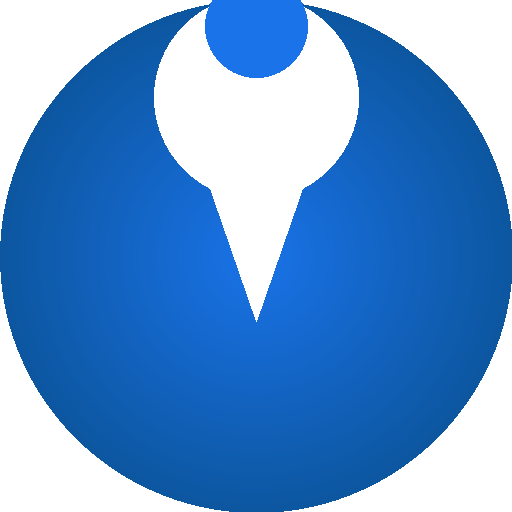
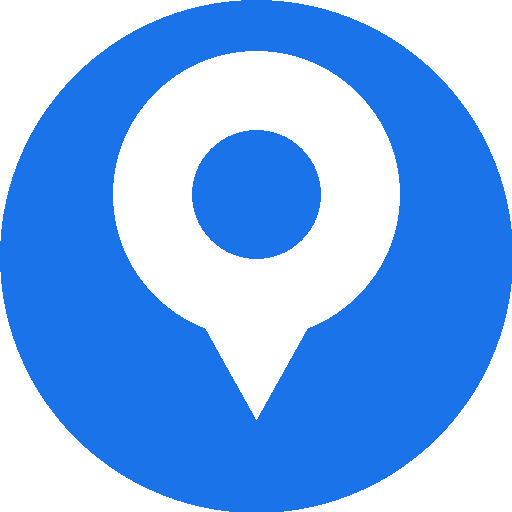
Add files via upload

diff --git a/index.html b/index.html
@@ -8,8 +8,10 @@
 <meta name="theme-color" content="#1a73e8">
 <title>Family Location</title>
 <link rel="manifest" href="manifest.json">
-<link rel="icon" href="icons/icon.svg">
-<link rel="apple-touch-icon" href="icons/icon.svg">
+<link rel="icon" href="icons/icon-192.png">
+<link rel="apple-touch-icon" href="icons/icon-192.png">
+<link rel="apple-touch-icon" sizes="192x192" href="icons/icon-192.png">
+<link rel="apple-touch-icon" sizes="512x512" href="icons/icon-512.png">
 <link rel="preconnect" href="https://fonts.googleapis.com">
 <link rel="preconnect" href="https://fonts.gstatic.com" crossorigin>
 <link href="https://fonts.googleapis.com/css2?family=Heebo:wght@300;400;500;700;800;900&display=swap" rel="stylesheet">
@@ -19,7 +21,7 @@
 // ╔══════════════════════════════════════════════════════════╗
 // ║  APP CONFIGURATION – Edit these values                   ║
 // ╚══════════════════════════════════════════════════════════╝
-const APP_VERSION        = "1.3.1";
+const APP_VERSION        = "1.4.0";
 const APP_NAME           = "Family Location";
 const LOCATION_UPDATE_MS = 30000;   // location push interval (ms)
 
@@ -566,16 +568,21 @@ select.lang-sel{
       <button class="m-priv no-print" id="privBtn" onclick="togglePrivacy()">
         <span id="privIco">👁️</span><span id="privLbl"></span>
       </button>
-      <!-- Member selector top-left (below zoom) -->
+      <!-- Member/group selector top-left (shows group name, allows filtering) -->
       <div class="m-sel no-print" id="memberSel" style="top:56px">
         <button class="m-sel-btn" onclick="toggleMemberSel()">
-          <span id="selIcon">👥</span><span id="selName"></span>
+          <span id="selIcon">👥</span>
+          <span id="selName" style="font-size:11px;font-weight:800"></span>
         </button>
         <div class="m-sel-drop" id="selDrop"></div>
       </div>
-      <!-- FABs bottom-right -->
+      <!-- 🎯 center-on-me: top right (below privacy) -->
+      <button class="no-print" onclick="centerOnMe()" title="מרכז עליי"
+        style="position:absolute;top:52px;right:12px;z-index:1000;width:40px;height:40px;border-radius:50%;border:none;
+               background:var(--primary);color:#fff;font-size:18px;cursor:pointer;
+               box-shadow:0 3px 10px rgba(0,0,0,.25);display:flex;align-items:center;justify-content:center">🎯</button>
+      <!-- FABs bottom-left: only + -->
       <div class="map-fabs no-print">
-        <button class="map-fab-btn map-fab-center" onclick="centerOnMe()" title="מרכז עליי">🎯</button>
         <button class="map-fab-btn map-fab-add" onclick="startAddPoint()" title="הוסף נקודה">＋</button>
       </div>
       <!-- Add point hint -->
@@ -605,11 +612,16 @@ select.lang-sel{
       </div>
     </div>
 
-    <!-- METRICS -->
+    <!-- METRICS / MOVEMENT -->
     <div class="tp" id="tp-metrics">
       <div class="sec">
-        <div class="sec-h" id="metTitle"></div>
-        <div style="font-size:13px;color:var(--text2);margin-bottom:14px" id="metDate"></div>
+        <div style="display:flex;align-items:center;gap:12px;margin-bottom:14px">
+          <div class="sec-h" id="metTitle" style="margin-bottom:0;flex:1"></div>
+          <input type="date" id="metDatePicker"
+            style="border:1.5px solid var(--border);border-radius:10px;padding:7px 10px;
+                   font-family:inherit;font-size:13px;background:var(--card);color:var(--text);cursor:pointer"
+            onchange="loadMetrics()">
+        </div>
         <div id="metList"></div>
         <div class="sec-h" id="logTitleEl" style="margin-top:16px"></div>
         <div id="logList"></div>
@@ -664,7 +676,7 @@ select.lang-sel{
           <!-- Always visible install button -->
           <div class="si" id="siInstallAlways" onclick="doInstallOrHelp()" style="cursor:pointer">
             <span class="si-ico">📲</span>
-            <span class="si-txt">התקן אפליקציה</span>
+            <span class="si-txt" id="sInstallAlwaysLbl">התקן אפליקציה</span>
           </div>
           <!-- Already installed (replaces above when standalone) -->
           <div class="si" id="siInstalled" style="display:none;cursor:default">
@@ -693,7 +705,7 @@ select.lang-sel{
         </div>
 
         <div style="text-align:center;padding:16px 0;color:var(--text2);font-size:12px">
-          Family Location v<span id="verFoot">1.3.0</span> · dimitryu
+          Family Location v<span id="verFoot">1.4.0</span> · dimitryu
         </div>
       </div>
     </div>
@@ -801,7 +813,7 @@ const TR = {
     obCreate:'צור קבוצה חדשה',obCreateS:'אתה תהיה מנהל הקבוצה',
     obJoin:'הצטרף לקבוצה קיימת',obJoinS:'הכנס קוד הצטרפות',
     grpName:'שם הקבוצה (אופציונלי)',btnCreate:'צור קבוצה',btnJoin:'הצטרף',btnBack:'חזרה',
-    navMap:'מפה',navPts:'נקודות',navGrp:'קבוצה',navMet:'מדדים',navSet:'הגדרות',
+    navMap:'מפה',navPts:'נקודות',navGrp:'קבוצה',navMet:'תנועה',navSet:'הגדרות',
     privOn:'גלוי',privOff:'מוסתר',
     ptTitle:'נקודות עניין',noPts:'אין נקודות עדיין',noPtsS:'לחץ + להוספה על המפה',
     addHint:'לחץ על המפה להוספת נקודה',
@@ -826,7 +838,7 @@ const TR = {
     lastSeen:'נראה לאחרונה',now:'עכשיו',minsAgo:'ד׳ לפני',
     radiusM:'רדיוס: ',meters:'מ׳',
     noGps:'GPS לא זמין',
-    metTitle:'מדדים יומיים',metToday:'היום',metKm:'ק"מ',metSteps:'צעדים',metNoData:'אין נתונים להיום',
+    metTitle:'תנועה יומית',metToday:'היום',metKm:'ק"מ',metSteps:'צעדים',metNoData:'אין נתונים להיום',
     allMembers:'כל חברי הקבוצה',selectMember:'בחר חבר',
     switchGroup:'החלף קבוצה',
     motionWalk:'הולך',motionCycle:'אופניים',motionDrive:'נוסע',motionStill:'עומד',
@@ -834,9 +846,11 @@ const TR = {
     routeTitle:'מסלול יומי',showRoute:'הצג מסלול',hideRoute:'הסתר מסלול',
     routeStop:'עצירה',routeNoData:'אין נתוני מסלול',
     sInstallWait:'ממתין לאישור...',
-    sInst:'התקנה',sInstall:'התקן כאפליקציה',sInstallShare:'הוסף למסך הבית',sInstallIOS:'הוסף למסך הבית (iOS)',sInstalled:'מותקן על המכשיר',
+    sInst:'התקנה',sInstall:'התקן אפליקציה',sInstallShare:'הוסף למסך הבית',sInstallIOS:'הוסף למסך הבית (iOS)',sInstalled:'מותקן על המכשיר',
+    sInstallAlways:'התקן אפליקציה',
     iosInstTitle:'התקנה על iPhone',iosInstStep1:'לחץ על כפתור השיתוף',iosInstStep2:'בחר "הוסף למסך הבית"',iosInstStep3:'לחץ "הוסף" לאישור',
     androidInstTitle:'התקנה על Android',androidInstStep1:'לחץ על תפריט ⋮ (שלוש נקודות) בכרום',androidInstStep2:'בחר "הוסף למסך הבית" או "התקן אפליקציה"',androidInstStep3:'לחץ "הוסף" לאישור',
+    renameGroup:'שנה שם קבוצה',renameGroupLbl:'שם הקבוצה',
   },
   en:{
     app_name:'Family Location',loading_sub:'Smart family location tracking',
@@ -846,7 +860,7 @@ const TR = {
     obCreate:'Create new group',obCreateS:'You will be the admin',
     obJoin:'Join existing group',obJoinS:'Enter an invite code',
     grpName:'Group name (optional)',btnCreate:'Create group',btnJoin:'Join',btnBack:'Back',
-    navMap:'Map',navPts:'Points',navGrp:'Group',navMet:'Stats',navSet:'Settings',
+    navMap:'Map',navPts:'Points',navGrp:'Group',navMet:'Movement',navSet:'Settings',
     privOn:'Visible',privOff:'Hidden',
     ptTitle:'Points of Interest',noPts:'No points yet',noPtsS:'Tap + to add on map',
     addHint:'Tap on the map to add a point',
@@ -871,7 +885,7 @@ const TR = {
     lastSeen:'Last seen',now:'just now',minsAgo:'min ago',
     radiusM:'Radius: ',meters:'m',
     noGps:'GPS unavailable',
-    metTitle:'Daily Stats',metToday:'Today',metKm:'km',metSteps:'steps',metNoData:'No data for today',
+    metTitle:'Daily Movement',metToday:'Today',metKm:'km',metSteps:'steps',metNoData:'No data for today',
     allMembers:'All members',selectMember:'Select member',
     switchGroup:'Switch Group',
     motionWalk:'Walking',motionCycle:'Cycling',motionDrive:'Driving',motionStill:'Still',
@@ -879,9 +893,11 @@ const TR = {
     routeTitle:'Daily Route',showRoute:'Show route',hideRoute:'Hide route',
     routeStop:'Stop',routeNoData:'No route data',
     sInstallWait:'Waiting for Chrome...',
-    sInst:'INSTALL',sInstall:'Install as App',sInstallShare:'Add to Home Screen',sInstallIOS:'Add to Home Screen (iOS)',sInstalled:'Installed on device',
+    sInst:'INSTALL',sInstall:'Install App',sInstallShare:'Add to Home Screen',sInstallIOS:'Add to Home Screen (iOS)',sInstalled:'Installed on device',
+    sInstallAlways:'Install App',
     iosInstTitle:'Install on iPhone',iosInstStep1:'Tap the Share button',iosInstStep2:'Choose "Add to Home Screen"',iosInstStep3:'Tap "Add" to confirm',
     androidInstTitle:'Install on Android',androidInstStep1:'Tap ⋮ menu in Chrome',androidInstStep2:'Choose "Add to Home Screen" or "Install App"',androidInstStep3:'Tap "Add" to confirm',
+    renameGroup:'Rename Group',renameGroupLbl:'Group name',
   },
   ru:{
     app_name:'Family Location',loading_sub:'Семейный трекер местоположения',
@@ -891,7 +907,7 @@ const TR = {
     obCreate:'Создать новую группу',obCreateS:'Вы будете администратором',
     obJoin:'Вступить в группу',obJoinS:'Введите код приглашения',
     grpName:'Название группы (необязательно)',btnCreate:'Создать группу',btnJoin:'Присоединиться',btnBack:'Назад',
-    navMap:'Карта',navPts:'Точки',navGrp:'Группа',navMet:'Статы',navSet:'Настройки',
+    navMap:'Карта',navPts:'Точки',navGrp:'Группа',navMet:'Движение',navSet:'Настройки',
     privOn:'Виден',privOff:'Скрыт',
     ptTitle:'Точки интереса',noPts:'Нет точек',noPtsS:'Нажмите + для добавления',
     addHint:'Нажмите на карту для добавления точки',
@@ -916,7 +932,7 @@ const TR = {
     lastSeen:'Последний раз',now:'только что',minsAgo:'мин назад',
     radiusM:'Радиус: ',meters:'м',
     noGps:'GPS недоступен',
-    metTitle:'Статистика за день',metToday:'Сегодня',metKm:'км',metSteps:'шагов',metNoData:'Нет данных за сегодня',
+    metTitle:'Движение за день',metToday:'Сегодня',metKm:'км',metSteps:'шагов',metNoData:'Нет данных за сегодня',
     allMembers:'Все участники',selectMember:'Выбрать участника',
     switchGroup:'Сменить группу',
     motionWalk:'Ходит',motionCycle:'Велосипед',motionDrive:'Едет',motionStill:'Стоит',
@@ -924,9 +940,11 @@ const TR = {
     routeTitle:'Дневной маршрут',showRoute:'Показать маршрут',hideRoute:'Скрыть маршрут',
     routeStop:'Остановка',routeNoData:'Нет данных маршрута',
     sInstallWait:'Ожидание Chrome...',
-    sInst:'УСТАНОВКА',sInstall:'Установить как приложение',sInstallShare:'Добавить на экран',sInstallIOS:'Добавить на экран (iOS)',sInstalled:'Установлено на устройстве',
+    sInst:'УСТАНОВКА',sInstall:'Установить приложение',sInstallShare:'Добавить на экран',sInstallIOS:'Добавить на экран (iOS)',sInstalled:'Установлено на устройстве',
+    sInstallAlways:'Установить приложение',
     iosInstTitle:'Установка на iPhone',iosInstStep1:'Нажмите кнопку «Поделиться»',iosInstStep2:'Выберите «На экран Домой»',iosInstStep3:'Нажмите «Добавить»',
     androidInstTitle:'Установка на Android',androidInstStep1:'Нажмите ⋮ меню в Chrome',androidInstStep2:'Выберите «Добавить на главный экран»',androidInstStep3:'Нажмите «Добавить»',
+    renameGroup:'Переименовать группу',renameGroupLbl:'Название группы',
   }
 };
 const t = k => (TR[lang]||TR.en)[k] || (TR.en[k]) || k;
@@ -1170,11 +1188,13 @@ async function loadGroup() {
   if (unsubGrp) unsubGrp();
   unsubGrp = db.collection('groups').doc(groupId).onSnapshot(s => {
     groupData = s.data();
-    // Cache group name for nav display even when tab changes
     if (groupData?.name) localStorage.setItem('fl_grp_name', groupData.name);
     // Update group name in nav button
     const gnlEl = document.getElementById('nlGroup');
     if (gnlEl) gnlEl.textContent = groupData?.name || t('navGrp');
+    // Update member selector button with group name
+    const selEl = document.getElementById('selName');
+    if (selEl && !focusedMember) selEl.textContent = groupData?.name || '';
     renderGroupTab();
   });
 }
@@ -1195,6 +1215,7 @@ function renderGroupTab() {
           <div class="cis">${groupData.members?.length||1} ${t('memsTitle').toLowerCase()} · ${isAdmin?'<span class="badge bdg-a">'+t('admin')+'</span>':''}</div>
         </div>
         <div style="display:flex;gap:6px">
+          ${isAdmin ? `<button class="small-btn" onclick="openRenameGroup()" title="${t('renameGroup')}">✏️</button>` : ''}
           ${multiGroup ? `<button class="small-btn" onclick="showGroupSwitcher()">🔄</button>` : ''}
           <button class="small-btn" onclick="showGroupCode()">#${esc(groupData.joinCode||'')}</button>
         </div>
@@ -1276,14 +1297,10 @@ function initMap() {
   const el = document.getElementById('map');
   mapObj = L.map(el, { zoomControl: false, attributionControl: false })
     .setView([31.7683, 35.2137], 10);
-  // Base tiles
+  // Base tiles — standard OSM (shows house numbers at zoom 18+)
   L.tileLayer('https://{s}.tile.openstreetmap.org/{z}/{x}/{y}.png', {
-    maxZoom: 21, maxNativeZoom: 19, attribution: '© OpenStreetMap'
-  }).addTo(mapObj);
-  // At zoom 20+ overlay with higher-detail tiles (shows house numbers)
-  L.tileLayer('https://tile.openstreetmap.fr/osmfr/{z}/{x}/{y}.png', {
-    minZoom: 19, maxZoom: 21, maxNativeZoom: 20, opacity: 0.99,
-    attribution: '© OpenStreetMap France'
+    maxZoom: 21, maxNativeZoom: 19,
+    attribution: lang==='he' ? '© <a href="https://openstreetmap.org">מפת הרחוב הפתוחה</a>' : '© <a href="https://openstreetmap.org">OpenStreetMap</a>'
   }).addTo(mapObj);
   L.control.attribution({ prefix: false }).addTo(mapObj);
   // Zoom control at bottom-right (above FABs)
@@ -1686,6 +1703,30 @@ async function leaveGroup() {
   } catch(e) { showToast(e.message,'err'); }
 }
 
+function openRenameGroup() {
+  if (groupData?.adminUid !== me.uid) return;
+  openModal(`
+    <div class="mttl">✏️ ${t('renameGroup')}</div>
+    <div class="fg"><label class="fl">${t('renameGroupLbl')}</label>
+      <input class="fi" type="text" id="iRenameGrp" value="${esc(groupData.name)}" maxlength="40"></div>
+    <div class="row mt16">
+      <button class="btn btn-s flex1" onclick="closeModal()">${t('cancel')}</button>
+      <button class="btn btn-p flex1" onclick="doRenameGroup()">${t('save')}</button>
+    </div>`);
+  setTimeout(() => document.getElementById('iRenameGrp')?.select(), 100);
+}
+
+async function doRenameGroup() {
+  const name = document.getElementById('iRenameGrp')?.value.trim();
+  if (!name || name === groupData.name) { closeModal(); return; }
+  try {
+    await db.collection('groups').doc(groupId).update({ name });
+    localStorage.setItem('fl_grp_name', name);
+    closeModal();
+    showToast('✅ ' + name, 'ok');
+  } catch(e) { showToast(e.message, 'err'); }
+}
+
 async function showGroupSwitcher() {
   const myGroups = myProfile?.groups || [groupId];
   if (myGroups.length <= 1) return;
@@ -1868,6 +1909,7 @@ function renderUI() {
   setText('sThemeTxt','sTheme'); setText('sLangTxt','sLang'); setText('sTrackLbl','sTrack');
   setText('sNotif','sNotif'); setText('sCenter','sCenter');
   setText('sGrpLbl','sGrp'); setText('sCode','sCode'); setText('sLeave','sLeave'); setText('sLogout','sLogout');
+  setText('sInstLbl','sInst'); setText('sInstallAlwaysLbl','sInstallAlways'); setText('sInstalled','sInstalled');
   // Header
   setText('hdrTitle','app_name');
   // Privacy
@@ -2133,16 +2175,18 @@ async function saveLocationLog(lat, lng, startTs, endTs) {
 
 async function loadMetrics() {
   const el = document.getElementById('metList');
+  // Use date picker or default to today
+  const picker = document.getElementById('metDatePicker');
   const today = new Date().toISOString().slice(0,10);
-  const dateEl = document.getElementById('metDate');
-  if (dateEl) dateEl.textContent = today;
+  if (picker && !picker.value) picker.value = today;
+  const selectedDate = picker?.value || today;
   setText('metTitle','metTitle');
   setText('logTitleEl','logTitle');
   if (!el || !groupId) return;
   el.innerHTML = '<div style="text-align:center;padding:24px;color:var(--text2)">⏳</div>';
   try {
     const snap = await db.collection('metrics')
-      .where('groupId','==',groupId).where('date','==',today).get();
+      .where('groupId','==',groupId).where('date','==',selectedDate).get();
     const isAdmin = groupData?.adminUid === me.uid;
     el.innerHTML = '';
     if (snap.empty) {
@@ -2186,8 +2230,9 @@ async function loadLocationLog() {
   const logTitleEl = document.getElementById('logTitleEl');
   if (logTitleEl) logTitleEl.textContent = t('logTitle');
   el.innerHTML = '<div style="text-align:center;padding:12px;color:var(--text2)">⏳</div>';
-  const today = new Date().toISOString().slice(0,10);
-  const isAdmin = groupData?.adminUid === me.uid;
+  const picker2 = document.getElementById('metDatePicker');
+  const today = (picker2?.value) || new Date().toISOString().slice(0,10);
+  const selectedDate = today;
   const nowTs = Date.now();
 
   // ── Helpers ──
@@ -2211,8 +2256,11 @@ async function loadLocationLog() {
       if (r.ok) {
         const j = await r.json();
         const parts = j.address;
-        const addr = [parts?.road, parts?.house_number, parts?.city || parts?.town || parts?.village]
-          .filter(Boolean).join(' ');
+        // Israeli address format: street name + house number
+        const street = parts?.road || parts?.pedestrian || parts?.footway || '';
+        const num    = parts?.house_number || '';
+        const city   = parts?.city || parts?.town || parts?.village || parts?.suburb || '';
+        const addr   = [street, num, city].filter(Boolean).join(' ');
         addrCache[key] = addr || `${lat.toFixed(4)}, ${lng.toFixed(4)}`;
       }
     } catch(e) { addrCache[key] = `${lat.toFixed(4)}, ${lng.toFixed(4)}`; }
@@ -2420,7 +2468,10 @@ function selectMember(uid) {
   const drop = document.getElementById('selDrop');
   if (drop) drop.className = 'm-sel-drop';
   const nameEl = document.getElementById('selName');
-  if (nameEl) nameEl.textContent = uid ? (members[uid]?.name || uid.slice(0,6)) : '';
+  // Show selected member name, or group name when showing all
+  if (nameEl) nameEl.textContent = uid
+    ? (members[uid]?.name || uid.slice(0,6))
+    : (groupData?.name || localStorage.getItem('fl_grp_name') || '');
   // Re-render all markers
   Object.keys(members).forEach(id => {
     if (id !== me.uid) updateMemberMarker(id, members[id]);

diff --git a/sw.js b/sw.js
@@ -1,7 +1,7 @@
 // ╔══════════════════════════════════════════╗
 // ║  Family Location — Service Worker v1.0.6 ║
 // ╚══════════════════════════════════════════╝
-const CACHE = 'family-location-v1.3.1';
+const CACHE = 'family-location-v1.4.0';
 const ASSETS = [
   './',
   './index.html',